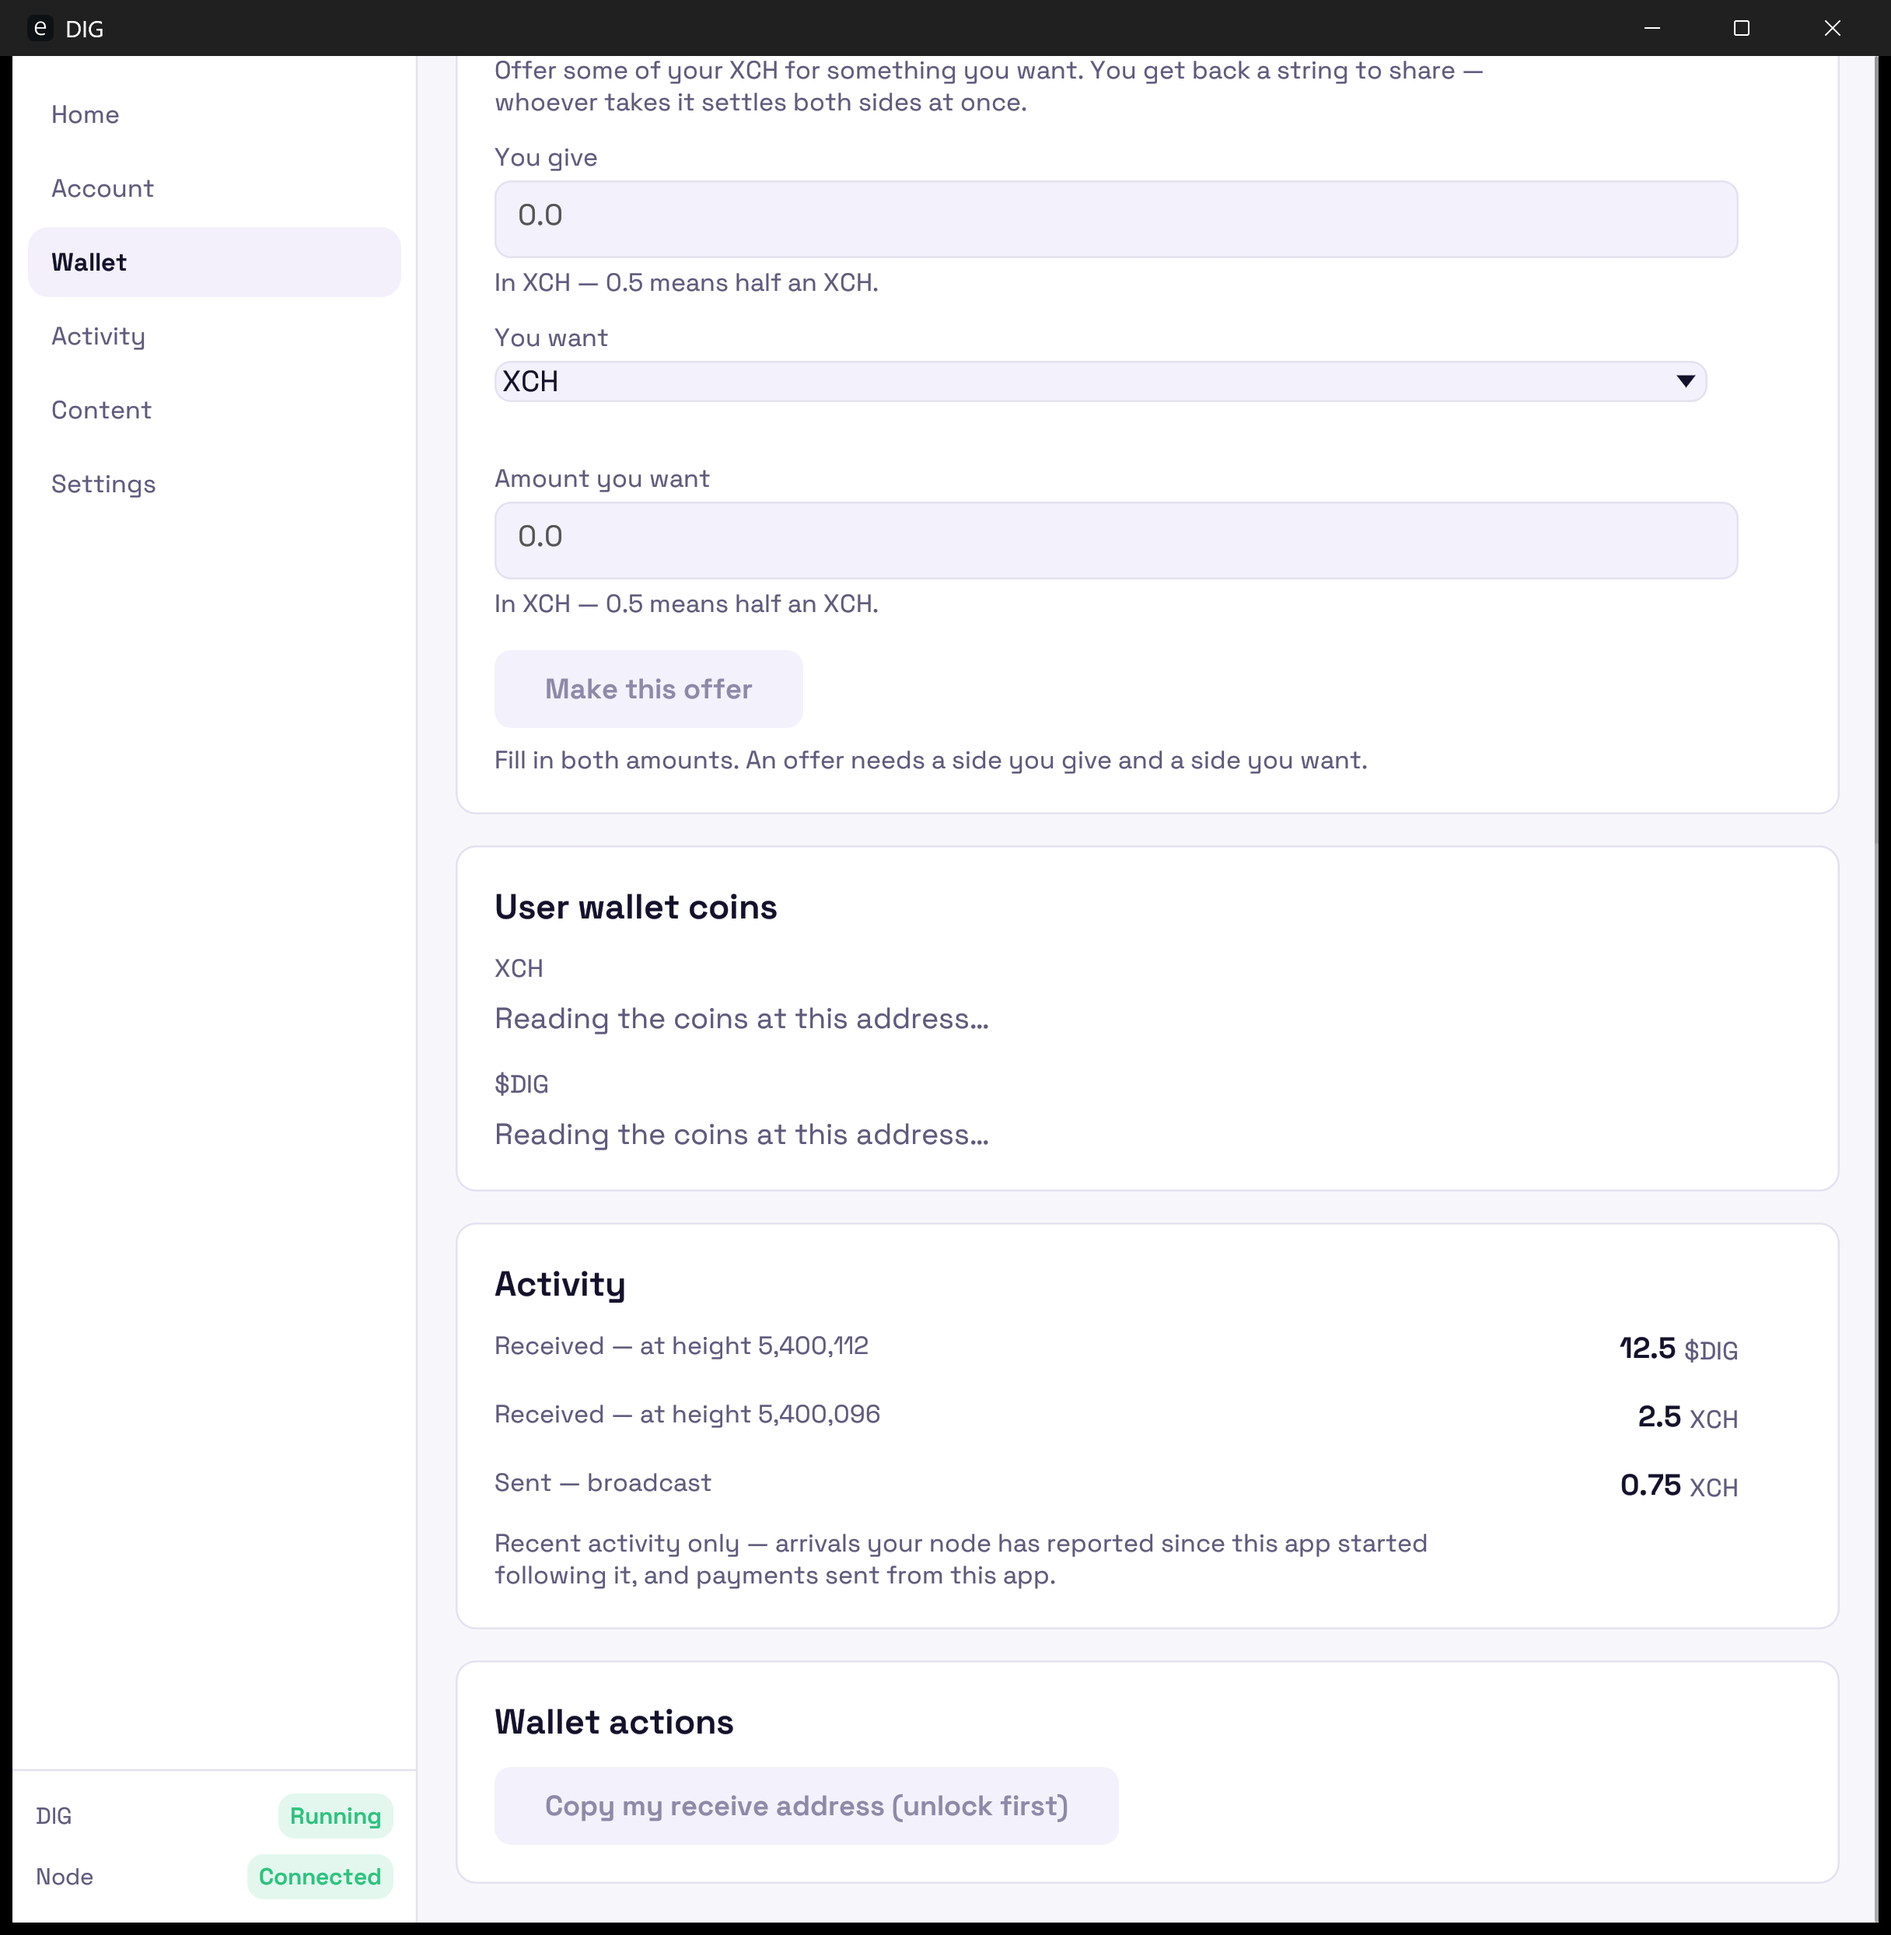
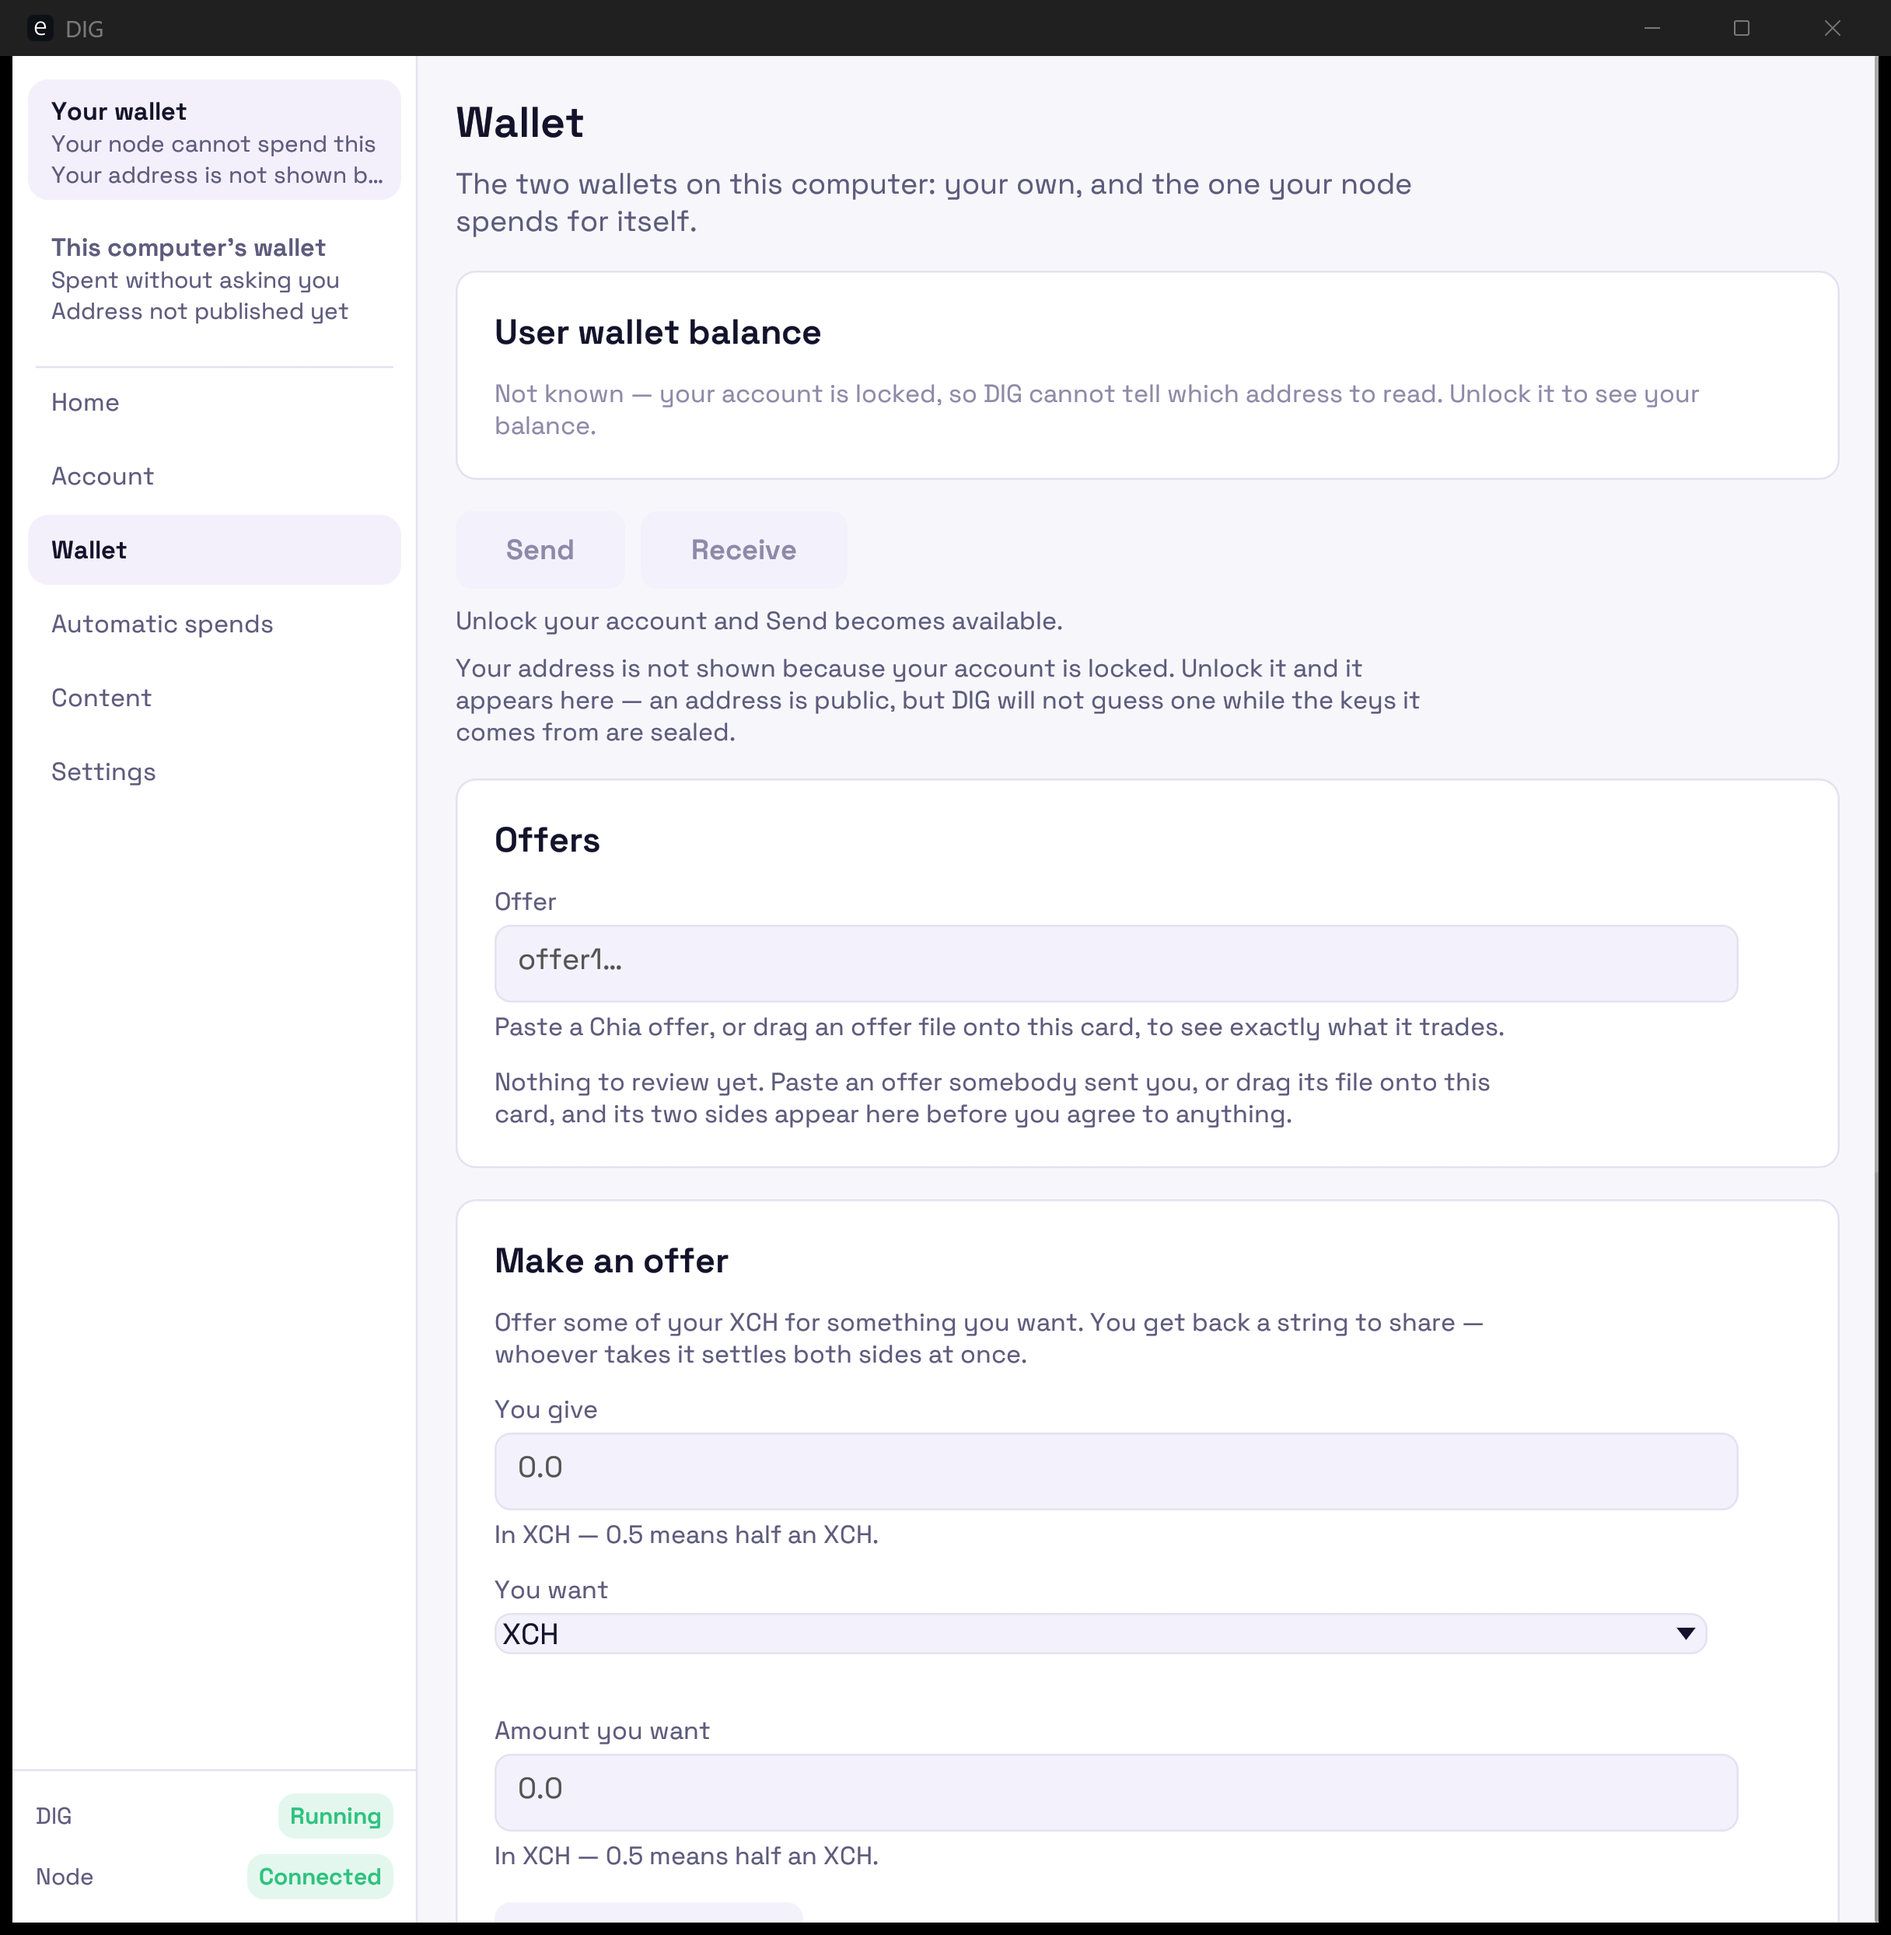
fix(wallet): badges and reasons that FIT the switcher
The custody badge rendered as 'Your node spends this witho...', dropping the
clause it exists to state; a truncated custody badge is worse than none
because it looks complete. Short forms for the sidebar, long ones on the
pane, and a width bound pinned from both sides.

diff --git a/crates/dig-app-core/src/wallet/machine.rs b/crates/dig-app-core/src/wallet/machine.rs
@@ -166,6 +166,25 @@ pub fn unknown_address_reason(why: &MachineAddressUnknown) -> String {
     }
 }
 
+/// The same reason, short enough for the sidebar switcher.
+///
+/// A SECOND wording rather than a truncation of the first, because the sidebar has room for about
+/// four words and a sentence cut at that width loses its verb. Each of these says the same thing as
+/// its long form in the space available; the Wallet pane, which has room, shows the long one.
+///
+/// The pairing is deliberate and is asserted: a short form that said something DIFFERENT from its
+/// long form would be two answers to one question, which is the drift this crate words its reasons
+/// in one place to avoid.
+pub fn short_address_reason(why: &MachineAddressUnknown) -> String {
+    match why {
+        MachineAddressUnknown::NoNode => "Node not reachable".to_string(),
+        MachineAddressUnknown::NotPublished => "Address not published yet".to_string(),
+        // Not the node's own words here: they are arbitrarily long and this surface has four words.
+        // The pane quotes them in full, which is where somebody debugging will look.
+        MachineAddressUnknown::ReadFailed(_) => "Address could not be read".to_string(),
+    }
+}
+
 /// Said when nothing answered the §5.3 endpoint ladder.
 ///
 /// *Could not reach* rather than *is not running*: the ladder's silence is equally consistent with a
@@ -257,6 +276,70 @@ mod tests {
         assert_eq!(
             MachineAddressReading::Unknown(MachineAddressUnknown::NoNode).address(),
             None
+        );
+    }
+
+    /// **Every reason has a short form that FITS the switcher and still says something.**
+    ///
+    /// The sidebar has room for about four words at XS. A reason that overruns renders truncated —
+    /// losing its verb, which is how a custody badge came to read *"Your node spends this witho…"* —
+    /// and an empty one leaves a wallet with nothing under its name, which reads as a wallet with no
+    /// address at all.
+    ///
+    /// # Why the bound is on WIDTH and not on "shorter than the long form"
+    ///
+    /// That was this test's first shape and it was wrong, which the test itself caught.
+    /// [`MachineAddressUnknown::ReadFailed`] carries **the node's own words**, and a node is free to
+    /// say something very short — `rpc error 500 after 30s` is already shorter than any fixed
+    /// sentence written here. So "the short form is shorter" is not a property of that variant at
+    /// all, and asserting it would have forced the short form to be worded around a fixture rather
+    /// than around the column it has to fit in.
+    ///
+    /// The width bound is the real requirement and it holds for every variant. The shorter-than
+    /// relation is asserted only for the two whose long form is a constant this crate controls.
+    #[test]
+    fn every_reason_has_a_short_form_that_fits_the_switcher() {
+        /// What the 208 px sidebar renders without truncating at XS.
+        const FITS: usize = 28;
+
+        for why in [
+            MachineAddressUnknown::NoNode,
+            MachineAddressUnknown::NotPublished,
+            MachineAddressUnknown::ReadFailed("rpc error 500 after 30s".into()),
+        ] {
+            let short = short_address_reason(&why);
+            assert!(
+                !short.trim().is_empty(),
+                "{why:?} has an empty short reason, which reads as no address at all"
+            );
+            assert!(
+                short.chars().count() <= FITS,
+                "{why:?}'s short reason will truncate in the switcher: {short:?}"
+            );
+        }
+
+        // The two whose long form this crate writes are genuinely condensed rather than merely
+        // different. Asserted separately, because the third variant's long form is not ours.
+        for why in [
+            MachineAddressUnknown::NoNode,
+            MachineAddressUnknown::NotPublished,
+        ] {
+            assert!(
+                short_address_reason(&why).chars().count()
+                    < unknown_address_reason(&why).chars().count(),
+                "{why:?}'s short reason is not a condensation of its long one"
+            );
+        }
+
+        // The bound from the other side, so it cannot be satisfied by a short form that says
+        // nothing: the LONG form of a reason this crate writes must genuinely overrun the column,
+        // or there was no reason to have two wordings.
+        assert!(
+            unknown_address_reason(&MachineAddressUnknown::NotPublished)
+                .chars()
+                .count()
+                > FITS,
+            "the long reason now fits the switcher, so the short form is redundant"
         );
     }
 

diff --git a/crates/dig-app-core/src/confirm/gui/window/pane/facts.rs b/crates/dig-app-core/src/confirm/gui/window/pane/facts.rs
@@ -145,7 +145,7 @@ impl PaneFacts {
     /// -- so the switcher and the Wallet tab can never disagree about whether there is an address,
     /// nor about why there is not.
     pub(crate) fn wallets(&self) -> Vec<crate::window_model::WalletEntry> {
-        use crate::wallet::machine::{unknown_address_reason, MachineAddressReading};
+        use crate::wallet::machine::{short_address_reason, MachineAddressReading};
         use crate::wallet::overview::{address_line, AddressReading};
         use crate::window_model::{
             address_fragment, SelectedWallet, WalletAddress, WalletEntry, MACHINE_CUSTODY,
@@ -167,10 +167,13 @@ impl PaneFacts {
         let machine = match &self.machine.address {
             MachineAddressReading::Known(address) => known(address.clone()),
             MachineAddressReading::Pending => {
-                WalletAddress::Withheld(super::copy::wallet::MACHINE_ADDRESS_PENDING.to_string())
+                WalletAddress::Withheld("Reading\u{2026}".to_string())
             }
+            // The SHORT form: this is a 208 px column, and the long sentence renders as
+            // `Your node does not yet tell …`, which loses its own verb. The Wallet pane shows the
+            // full reason.
             MachineAddressReading::Unknown(why) => {
-                WalletAddress::Withheld(unknown_address_reason(why))
+                WalletAddress::Withheld(short_address_reason(why))
             }
         };
 

diff --git a/crates/dig-app-core/src/window_model.rs b/crates/dig-app-core/src/window_model.rs
@@ -312,7 +312,13 @@ pub const USER_CUSTODY: &str = "Your node cannot spend this";
 ///
 /// *Without asking* is the whole of it. That the node spends is unremarkable; that it does so with
 /// no confirmation is the fact that buys the Automatic spends ledger its own destination.
-pub const MACHINE_CUSTODY: &str = "Your node spends this without asking";
+///
+/// **Short enough to FIT a 208 px sidebar at XS, and that is a correctness requirement rather than a
+/// layout preference.** The first version read *"Your node spends this without asking"* and rendered
+/// as `Your node spends this witho…` — which drops the clause the badge exists for and leaves a
+/// sentence saying merely that the node spends it. A truncated custody badge is worse than none,
+/// because it looks like a complete statement.
+pub const MACHINE_CUSTODY: &str = "Spent without asking you";
 
 /// What the user wallet is called.
 pub const USER_WALLET_NAME: &str = "Your wallet";
